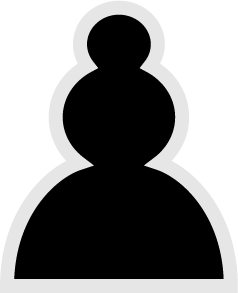
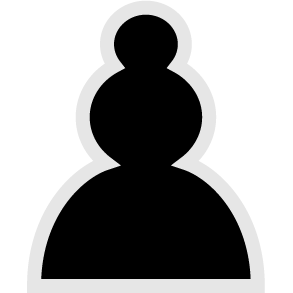
updating chessDemo, made it possible to choose what color you are playing as, (boolean "color" in chessDemo)

diff --git a/Team20Game/src/JavaFX/ChessDemo.java b/Team20Game/src/JavaFX/ChessDemo.java
@@ -3,6 +3,7 @@ import javafx.application.Application;
 import javafx.scene.image.Image;
 import javafx.scene.layout.StackPane;
 import javafx.scene.transform.Rotate;
+import javafx.scene.transform.Translate;
 import javafx.stage.Stage;
 import javafx.scene.Group;
 import javafx.scene.Scene;
@@ -20,8 +21,10 @@ import Game.GameEngine;
 public class ChessDemo extends Application {
 
     public static final int TILE_SIZE = 100 ;
-    public static final double imageSize = 1;
+    public static final double imageSize = 0.8;
     public static boolean myTurn = true;
+
+    public static boolean color = true;
     private GameEngine ge = new GameEngine(15, true);
 
     private final int HEIGHT = ge.getBoard().getBoardState().length;
@@ -51,19 +54,38 @@ public class ChessDemo extends Application {
                 square.relocate(x*ChessDemo.TILE_SIZE, y*ChessDemo.TILE_SIZE);
                 boardGroup.getChildren().add(square);
                 if(ge.getBoard().getBoardState()[x][y]!=null){
-                    Tile tile = new Tile(x, y, HEIGHT, ge, hboxGroup, tileGroup, board);
-                    tile.setImageView(ge.getBoard().getBoardState()[x][y].getImageView());
+                    boolean myColor;
+                    if(color) {
+                        if (ge.getBoard().getBoardState()[x][y].getColor()) {
+                            myColor = true;
+                        }else{
+                            myColor = false;
+                        }
+                    }else{
+                        if(ge.getBoard().getBoardState()[x][y].getColor()){
+                            myColor = false;
+                        }else{
+                            myColor = true;
+                        }
+                    }
+                    Tile tile = new Tile(x, y, myColor, HEIGHT, ge, hboxGroup, tileGroup, board);
+                    if(!color){
+                        ImageView temp = ge.getBoard().getBoardState()[x][y].getImageView();
+                        temp.getTransforms().add(new Rotate(180, TILE_SIZE/2, TILE_SIZE/2));
+                        tile.setImageView(temp, TILE_SIZE*(1-imageSize)/2, TILE_SIZE*(1-imageSize)/2);
+                    }else {
+                        tile.setImageView(ge.getBoard().getBoardState()[x][y].getImageView(),TILE_SIZE*(1-imageSize)/2, TILE_SIZE*(1-imageSize)/2);
+                    }
                     board[x][y] = tile;
                     tileGroup.getChildren().add(tile);
                 }
             }
         }
         System.out.println(ge.getBoard());
-        Rotate rotate180 = new Rotate(180);
-        /*root.getTransforms().add(rotate180);
-        root.setTranslateX(TILE_SIZE*WIDTH);
-        root.setTranslateY(TILE_SIZE*HEIGHT);
-        */
+        if(!color) {
+            Rotate rotate180 = new Rotate(180, (TILE_SIZE*WIDTH)/2, (TILE_SIZE*HEIGHT)/2);
+            root.getTransforms().add(rotate180);
+        }
         return root;
     }
     @Override
@@ -85,10 +107,9 @@ class Tile extends StackPane {
     private int currentPositionX;
     private int currentPositionY;
 
-    private double mouseX, mouseY;
     private double oldX, oldY;
 
-    public Tile(int x, int y, int height, GameEngine gameEngine, Group hboxGroup, Group tileGroup, Tile[][] board) {
+    public Tile(int x, int y, boolean myColor , int height, GameEngine gameEngine, Group hboxGroup, Group tileGroup, Tile[][] board) {
         super.setWidth(ChessDemo.TILE_SIZE);
         setHeight(ChessDemo.TILE_SIZE);
         currentPositionX=x;
@@ -97,15 +118,11 @@ class Tile extends StackPane {
         System.out.println(x +  ", " + y + ",,,");
         this.height = height;
         this.gameEngine = gameEngine;
-        relocate(x * ChessDemo.TILE_SIZE /*+ ChessDemo.TILE_SIZE * (ChessDemo.imageSize/16)*/, ((height-1-y) * ChessDemo.TILE_SIZE)) ;
-        /*Rectangle square = new Rectangle(ChessDemo.TILE_SIZE, ChessDemo.TILE_SIZE);
-        square.setFill(light ? Color.valueOf("#feb"): Color.valueOf("#582"));
-        square.relocate(x*ChessDemo.TILE_SIZE, (height-1-y)*ChessDemo.TILE_SIZE);
-        getChildren().add(square);
-        */
+        relocate(x * ChessDemo.TILE_SIZE , (height-1-y) * ChessDemo.TILE_SIZE) ;
+
         setOnMouseClicked(e->{
-            if(ChessDemo.myTurn) {
-                hboxGroup.getChildren().clear();
+            hboxGroup.getChildren().clear();
+            if(ChessDemo.myTurn && myColor) {
                 ArrayList<Integer> moves = gameEngine.validMoves(currentPositionX, currentPositionY);
 
                 if(moves!=null&&moves.size()>0) {
@@ -125,8 +142,6 @@ class Tile extends StackPane {
             /*relocate(e.getSceneX() - mouseX + oldX - (ChessDemo.TILE_SIZE/2), e.getSceneY() - mouseY + oldY -(ChessDemo.TILE_SIZE/2));*/
         });
         setOnMouseReleased(e->{
-           /* oldX = e.getSceneX();
-            oldY = e.getSceneY();*/
         });
     }
     public void setPos(int x, int y){
@@ -139,9 +154,16 @@ class Tile extends StackPane {
     public int getY(){
         return currentPositionY;
     }
-    public boolean setImageView(ImageView img){
+    public boolean setImageView(ImageView img, double offsetX, double offsetY){
         if(img == null){
             return false;
+        }
+        if(!ChessDemo.color){
+            img.setTranslateX(-offsetX);
+            img.setTranslateY(-offsetY);
+        }else{
+            img.setTranslateX(offsetX);
+            img.setTranslateY(offsetY);
         }
         getChildren().add(img);
         return true;
